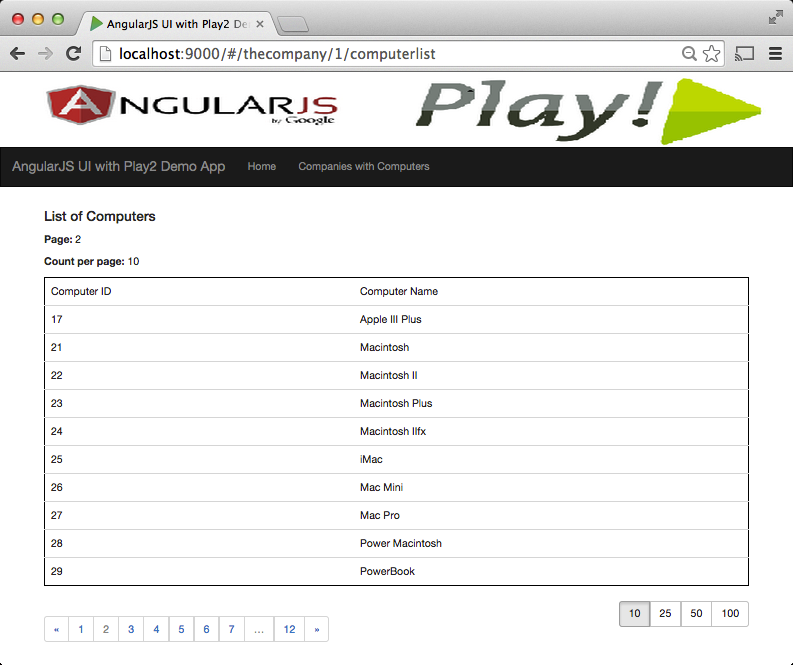
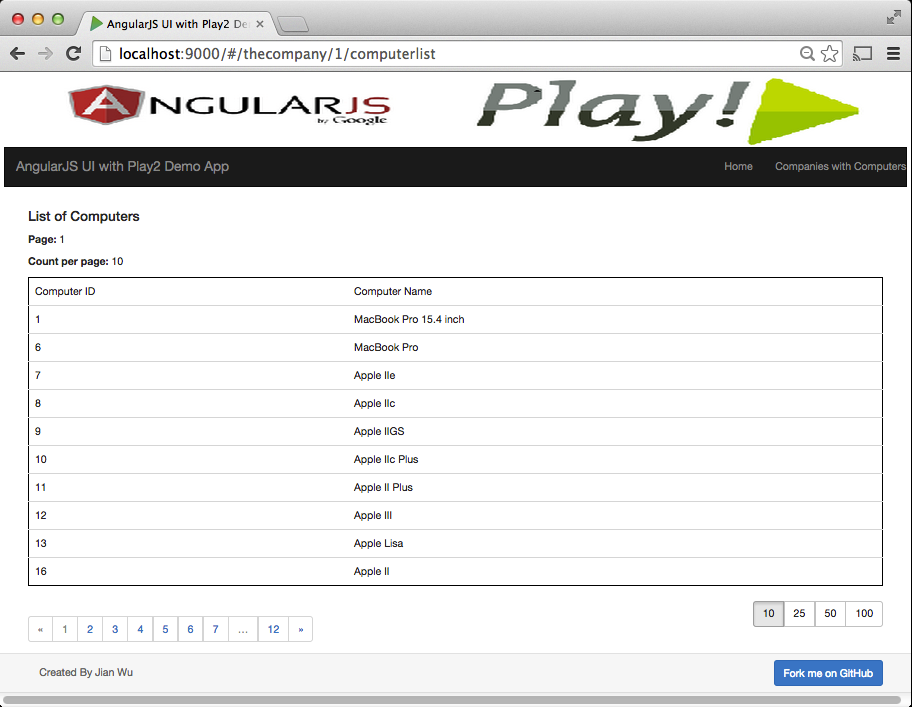
applying bootstrap style to header and footer

Changed region(s): [[0.0, 0.0, 1.0, 1.0]]

diff --git a/app/views/index.scala.html b/app/views/index.scala.html
@@ -15,16 +15,20 @@
   <script src="@routes.Assets.at("javascripts/angularapp.js")" type="text/javascript"></script>
 </head>
 <body ng-app="AngularPlay2App">
-  <div class="header_image">
-    <img src="@routes.Assets.at("images/favicon.png")" height="100" width="570"/>
+<header class="masthead">
+  <div class="container">
+    <div class="row header_image">
+      <img src="@routes.Assets.at("images/favicon.png")" height="100" width="570"/>
+    </div>
   </div>
+</header>  
   
   <!-- NAVIGATION -->
   <nav class="navbar navbar-inverse" role="navigation">
     <div class="navbar-header">
         <a class="navbar-brand" ui-sref="#">@title</a>
     </div>
-    <ul class="nav navbar-nav">
+    <ul class="nav navbar-nav navbar-right">
         <li><a ui-sref="home">Home</a></li>
         <li><a ui-sref="previewcompanies">Companies with Computers</a></li>
     </ul>
@@ -36,5 +40,11 @@
     <div ui-view></div>
   </div>
 
+  <div class = "navbar navbar-default navbar-fixed-bottom">	
+    <div class = "container">
+	  <p class = "navbar-text pull-left">Created By Jian Wu</p>
+      <a href = "https://github.com/jianwu-github/angularjs-play2-postgresql" class = "navbar-btn btn-primary btn pull-right">Fork me on GitHub</a>
+    </div>
+  </div>
 </body>
 </html>

diff --git a/public/stylesheets/main.css b/public/stylesheets/main.css
@@ -3,3 +3,9 @@
 .header_image img{ width:100%; }
 
 .ng-table { border: 1px solid #000; }
+
+body { 
+	margin-bottom: 40px;
+	margin-right: 5px;
+	margin-left: 5px; 
+}
